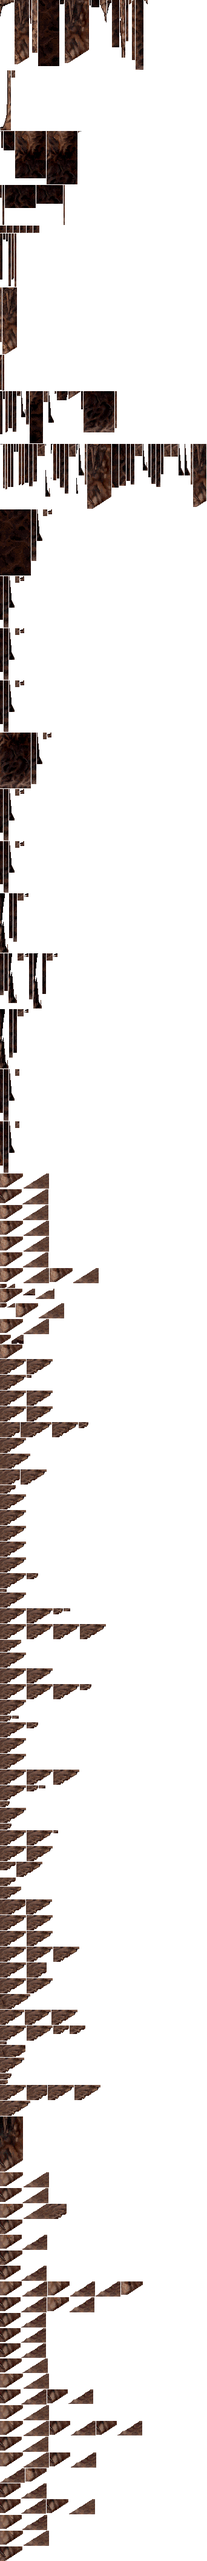
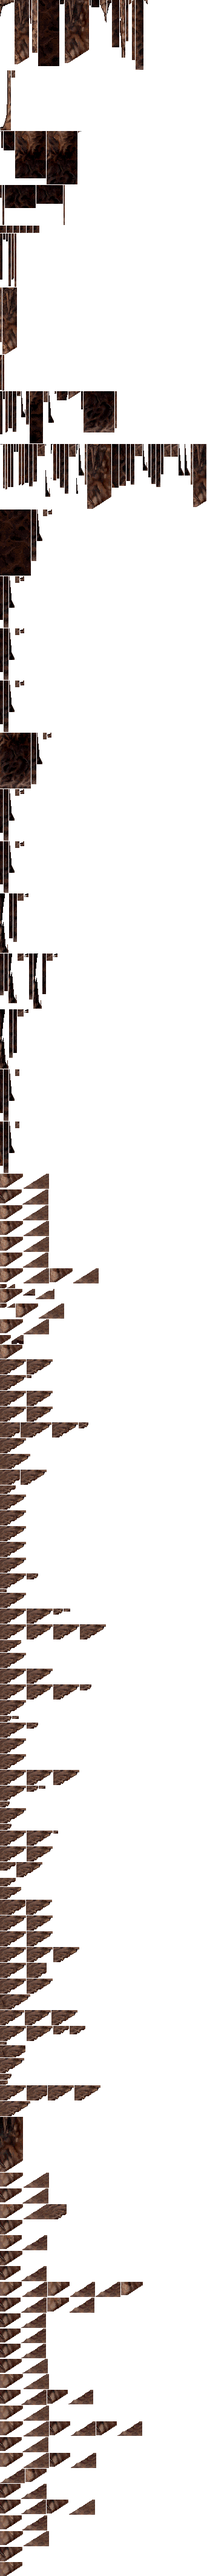
Blend approved floor joins in level 5 room 13

diff --git a/tests/test_level5_cavern_retouch.py b/tests/test_level5_cavern_retouch.py
@@ -39,7 +39,7 @@ APPROVED = {
 class BundledLevelFiveArtworkTests(unittest.TestCase):
     def test_approved_scope_and_changed_source_guards(self):
         assets = retouch_assets(5)
-        self.assertEqual(len(assets), 89)
+        self.assertEqual(len(assets), 90)
         self.assertEqual({key[0] for key in assets}, (set(APPROVED) | right_tip_rooms(5) | floor_join_rooms(5)))
         for key, (record, image) in assets.items():
             room, shape, x, bottom, mode = key

diff --git a/docs/CAVERN_ARTWORK.md b/docs/CAVERN_ARTWORK.md
@@ -448,3 +448,4 @@ the separate `rendered/level3-room30-joins-v1/` reference.
[4 lines of base64/hex data omitted]
